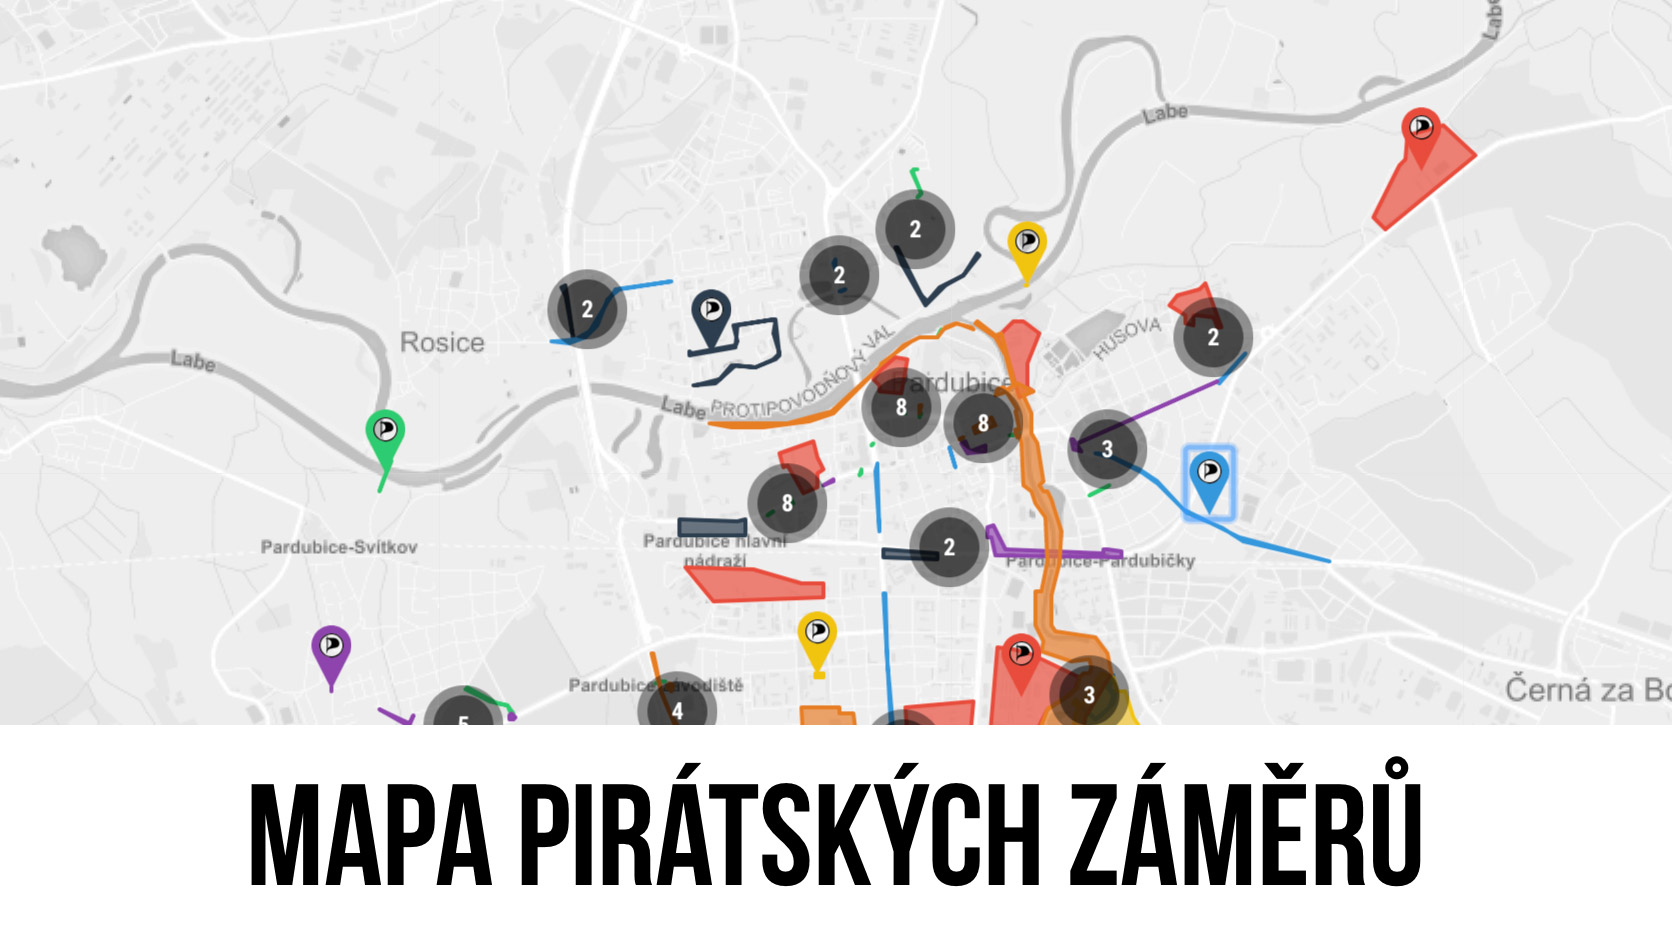
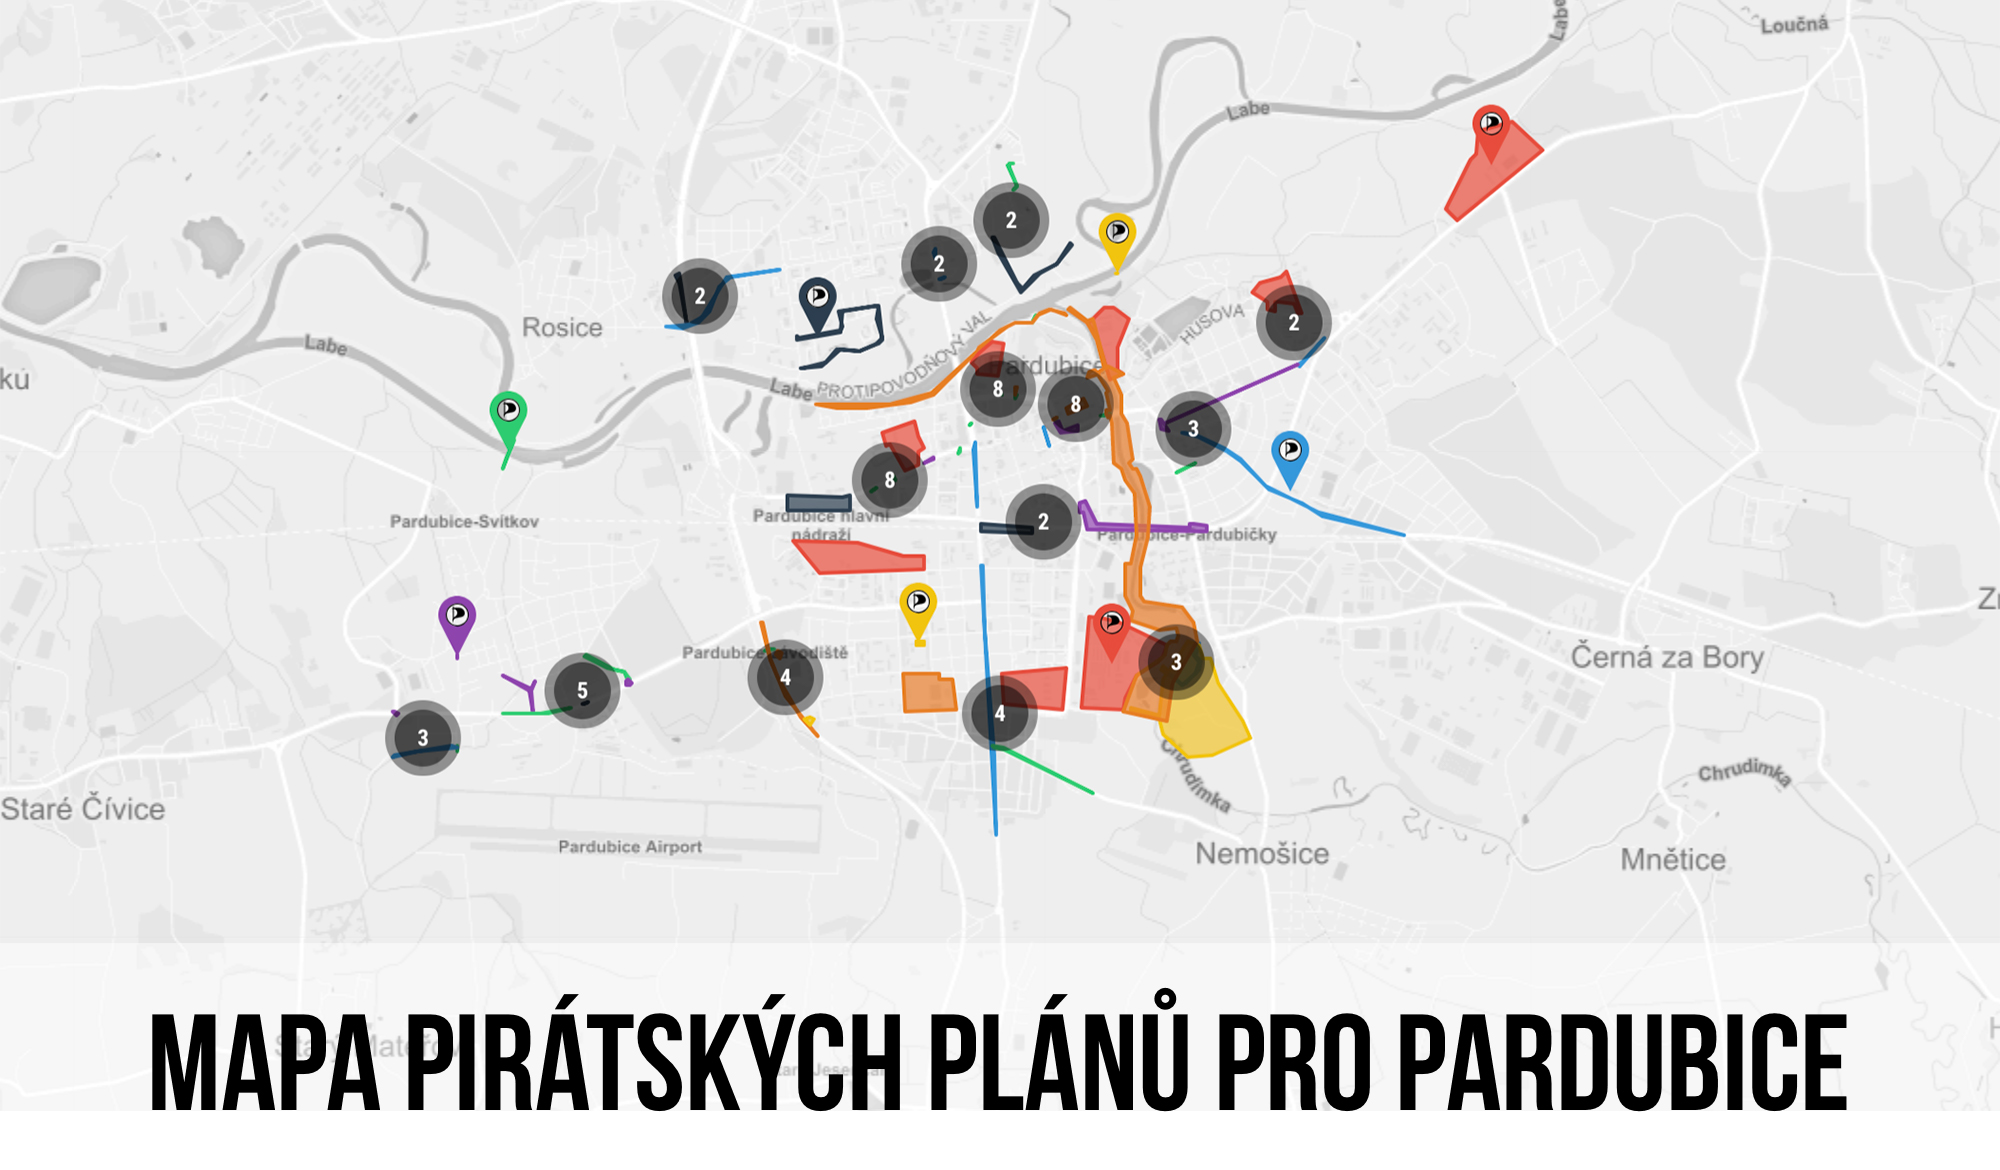
[feature] better map teasers and name, SEO

diff --git a/assets/css/main.scss b/assets/css/main.scss
@@ -64,6 +64,62 @@
     top: 0;
     width: 100%;
     height: 100%;
+    display: flex;
+    flex-direction: column;
     align-items: center;
     justify-content: center;
+}
+
+.pce-im-teaser-big {
+    position: relative;
+    overflow: hidden;
+}
+
+.pce-im-teaser-big .pce-im-teaser-big__wrap {
+    display: block;
+    position: relative;
+    text-decoration: none;
+}
+
+.pce-im-teaser-big__headline {
+    margin: 0;
+    padding: 5rem 2rem;
+    width: 100%;
+    display: flex;
+    flex-direction: column;
+    align-items: center;
+    justify-content: center;
+    text-align: center;
+    background: rgba(255, 255, 255, .8);
+    transition: background .3s ease-in-out;
+
+    &:hover {
+        background: rgba(255, 255, 255, .65);
+    }
+
+    .pce-im-teaser-big__headline-caption {
+        @include headerStyle(h3, super);
+    }
+
+    .pce-im-teaser-big__headline-button {
+        @include headerStyle(h4, alt);
+
+        text-decoration: none;
+        margin-top: 1rem;
+        margin-bottom: 0;
+        padding: 0.5em 1rem;
+    }
+
+
+    @include breakpoint(medium down) {
+        padding: 2rem 2rem;
+
+        .pce-im-teaser-big__headline-caption {
+            @include headerStyle(h5, super);
+        }
+
+        .pce-im-teaser-big__headline-button {
+            @include headerStyle(h5, alt);
+        }
+    }
 }

diff --git a/_includes/right-bar/intention-map.html b/_includes/right-bar/intention-map.html
@@ -2,12 +2,12 @@
     <ul class="c-widget-accordion" data-accordion="" data-allow-all-closed="true">
         <li class="c-widget-accordion-item is-active" data-accordion-item="">
             <a href="#intention-map-toc" class="c-widget-accordion-link">
-                <span class="c-widget-accordion__title">Interaktivní mapa záměrů</span>
+                <span class="c-widget-accordion__title">Mapa pirátských plánů</span>
             </a>
             <div class="c-widget-accordion-content c-widget-accordion-content--nopad pce-im-teaser" data-tab-content="" id="intention-map-toc">
-                {% asset 'miscellaneous/im-teaser.jpg' magick:resize='342x342' class='pce-im-teaser__img' %}
+                {% asset 'miscellaneous/im-teaser-rectangle.jpg' magick:resize='342x342' class='pce-im-teaser__img' %}
                 <div class="pce-im-teaser__cta">
-                    <a href="{{ '/komunalni-volby-2018/mapa-zameru/' | relative_url }}" class="button large pce-im-teaser__link">Zobrazit mapu</a>
+                    <a href="{{ '/komunalni-volby-2018/mapa-piratskych-planu/' | relative_url }}" class="button large pce-im-teaser__link">Zobrazit mapu</a>
                 </div>
             </div>
         </li>

diff --git a/komunalni-volby-2018/mapa-piratskych-planu.html b/komunalni-volby-2018/mapa-piratskych-planu.html
@@ -4,11 +4,13 @@ title: Mapa záměrů
 description: Prohlédněte si interaktivní mapu pirátských záměrů pro Pardubice. Mapa je součástí volebního programu, se kterým jdeme do komunálních voleb v roce 2018.
 keywords: volby, 2018, program, mapa záměrů, mapa
 img: og/mapa-zameru.jpg
+redirect_from:
+  - /komunalni-volby-2018/mapa-zameru/
 ---
 
 <div class="c-intention-map">
   <header class="c-intention-map__header-wrap">
-    <h1 itemprop="headline" class="c-page-title c-intention-map__header">Mapa záměrů</h1>
+    <h1 itemprop="headline" class="c-page-title c-intention-map__header">Mapa pirátských plánů</h1>
   </header>
 
   <!-- Article -->

diff --git a/index.html b/index.html
@@ -19,6 +19,8 @@ img: header/komunal-banner-large.png
    breakpoint=640
 %}
 
+<h1 class="hide">Piráti Pardubice</h1>
+
 <div class="row">
   <div class="medium-12 large-8 columns">
     <section class="o-section o-section--spaceBot">

diff --git a/komunalni-volby-2018/index.md b/komunalni-volby-2018/index.md
@@ -13,3 +13,12 @@ keywords: volby, 2018, program, kandidátka, kandidátní listina, kandidáti, k
     <p>Otevřenost je nejlepším lékem na korupci a plýtvání. To, že být transparentní, není nic těžkého, dokazujeme sami na sobě - už jen proto sami dobře víme, jak na to, a společně to dokážeme i v Pardubicích.</p>
     <cite>Ondřej Karas, kandidát na primátora města Pardubic</cite>
 </blockquote>
+
+<div class="pce-im-teaser-big">
+    <a href="/komunalni-volby-2018/mapa-piratskych-planu/" title="Interaktivní mapa pirátských plánů" class="pce-im-teaser-big__wrap" style="background: url({% asset 'miscellaneous/im-teaser-landscape.jpg' magick:resize='1122x' magick:crop='1122x300+0+0' magick:gravity='center' @path %}) center no-repeat;">
+        <h1 class="pce-im-teaser-big__headline">
+            <span class="pce-im-teaser-big__headline-caption">Interaktivní mapa pirátských plánů</span>
+            <div href="{{ '/komunalni-volby-2018/mapa-piratskych-planu/' | relative_url }}" class="button pce-im-teaser-big__headline-button">Zobrazit</div>
+        </h1>
+    </a>
+</div>
